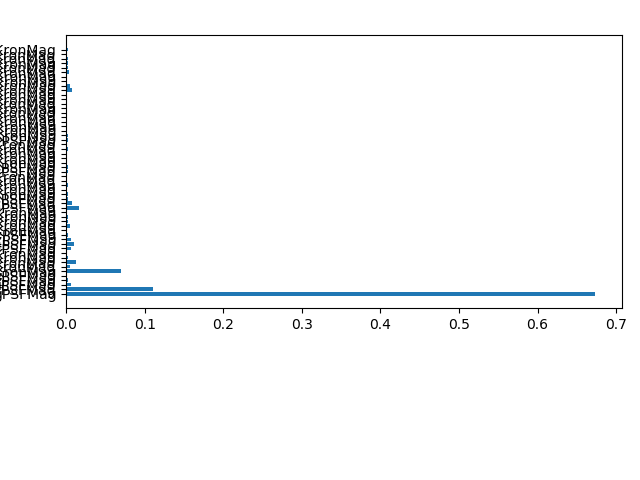
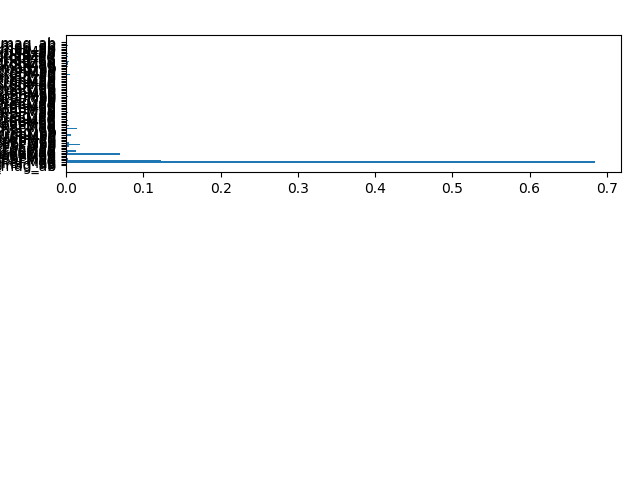
Bug hunting

diff --git a/crossmatching/filtering.py b/crossmatching/filtering.py
@@ -1,54 +1,56 @@
 import pandas as pd
 import glob as glob
 import numpy as np
-import glob as glob
+import os
 
 
-input_dir = '/projects/b1053/joe/photoz/crossmatching/output/'
 output_dir = '/projects/b1053/joe/photoz/crossmatching/filtered_output/'
+data_input_folder = '/projects/b1053/joe/photoz/crossmatching/output/*.csv'
+xmatched = pd.concat(map(pd.read_csv, glob.glob(os.path.join('', data_input_folder))))
+xmatched = xmatched.sample(frac=1, random_state=42).reset_index(drop=True)
 
-input_files = glob.glob(input_dir + '*')
+# Only keep primary detections
+filtered_xmatched = xmatched[xmatched['primaryDetection'] == 1]
+# Only keep redshifts above 0
+filtered_xmatched = filtered_xmatched[filtered_xmatched['z'] > 0]
+# Filter classes
+filtered_xmatched = filtered_xmatched[filtered_xmatched['class'] == 'GALAXY']
+# Filter stars
+filtered_xmatched = filtered_xmatched[filtered_xmatched['ps1dr2_p_star'] < 0.5]
 
-for f in input_files:
-    print('Filtering: {}'.format(f))
-    xmatched = pd.read_csv(f)
+filtered_xmatched['unwise_w1_mag_ab'] = filtered_xmatched.replace('None', np.nan)
+filtered_xmatched['unwise_w1_mag_ab'] = pd.to_numeric(filtered_xmatched['unwise_w1_mag_ab'])
+
+filtered_xmatched['unwise_w2_mag_ab'] = filtered_xmatched.replace('None', np.nan)
+filtered_xmatched['unwise_w2_mag_ab'] = pd.to_numeric(filtered_xmatched['unwise_w2_mag_ab'])
+
+# Fill nans with the average of the parameter
+filtered_xmatched['gPSFMag'] = filtered_xmatched['gPSFMag'].fillna(np.average(filtered_xmatched['gPSFMag'][~filtered_xmatched['gPSFMag'].isnull()]))
+filtered_xmatched['rPSFMag'] = filtered_xmatched['rPSFMag'].fillna(np.average(filtered_xmatched['rPSFMag'][~filtered_xmatched['rPSFMag'].isnull()]))
+filtered_xmatched['iPSFMag'] = filtered_xmatched['iPSFMag'].fillna(np.average(filtered_xmatched['iPSFMag'][~filtered_xmatched['iPSFMag'].isnull()]))
+filtered_xmatched['zPSFMag'] = filtered_xmatched['zPSFMag'].fillna(np.average(filtered_xmatched['zPSFMag'][~filtered_xmatched['zPSFMag'].isnull()]))
+filtered_xmatched['yPSFMag'] = filtered_xmatched['yPSFMag'].fillna(np.average(filtered_xmatched['yPSFMag'][~filtered_xmatched['yPSFMag'].isnull()]))
+
+filtered_xmatched['gKronMag'] = filtered_xmatched['gKronMag'].fillna(np.average(filtered_xmatched['gKronMag'][~filtered_xmatched['gKronMag'].isnull()]))
+filtered_xmatched['rKronMag'] = filtered_xmatched['rKronMag'].fillna(np.average(filtered_xmatched['rKronMag'][~filtered_xmatched['rKronMag'].isnull()]))
+filtered_xmatched['iKronMag'] = filtered_xmatched['iKronMag'].fillna(np.average(filtered_xmatched['iKronMag'][~filtered_xmatched['iKronMag'].isnull()]))
+filtered_xmatched['zKronMag'] = filtered_xmatched['zKronMag'].fillna(np.average(filtered_xmatched['zKronMag'][~filtered_xmatched['zKronMag'].isnull()]))
+filtered_xmatched['yKronMag'] = filtered_xmatched['yKronMag'].fillna(np.average(filtered_xmatched['yKronMag'][~filtered_xmatched['yKronMag'].isnull()]))
+
+filtered_xmatched['unwise_w1_mag_ab'] = filtered_xmatched['unwise_w1_mag_ab'].fillna(np.average(filtered_xmatched['unwise_w1_mag_ab'][~filtered_xmatched['unwise_w1_mag_ab'].isnull()]))    
+filtered_xmatched['unwise_w2_mag_ab'] = filtered_xmatched['unwise_w2_mag_ab'].fillna(np.average(filtered_xmatched['unwise_w2_mag_ab'][~filtered_xmatched['unwise_w2_mag_ab'].isnull()]))
+
+# Add all the available colours
+PSF = ['gPSFMag', 'rPSFMag', 'iPSFMag', 'zPSFMag', 'yPSFMag']
+Kron = ['gKronMag', 'rKronMag', 'iKronMag', 'zKronMag', 'yKronMag']
+W = ['unwise_w1_mag_ab', 'unwise_w2_mag_ab']
+total = PSF + Kron + W
+
+for i, c1 in enumerate(total):
+    for j, c2 in enumerate(total):
+        if j > i:
+            colname = c1 + '_' + c2
+            filtered_xmatched[colname] = filtered_xmatched[c1] - filtered_xmatched[c2]
     
-    # Only keep primary detections
-    filtered_xmatched = xmatched[xmatched['primaryDetection'] == 1]
-    # Only keep redshifts above 0
-    filtered_xmatched = filtered_xmatched[filtered_xmatched['z'] > 0]
-    # Filter classes
-    filtered_xmatched = filtered_xmatched[filtered_xmatched['class'] == 'GALAXY']
-    # Filter stars
-    filtered_xmatched = filtered_xmatched[filtered_xmatched['ps1dr2_p_star'] < 0.5]
-    # Fill nans with the average of the parameter
-    filtered_xmatched['gPSFMag'] = filtered_xmatched['gPSFMag'].fillna(np.average(filtered_xmatched['gPSFMag'][~filtered_xmatched['gPSFMag'].isnull()]))
-    filtered_xmatched['rPSFMag'] = filtered_xmatched['rPSFMag'].fillna(np.average(filtered_xmatched['rPSFMag'][~filtered_xmatched['rPSFMag'].isnull()]))
-    filtered_xmatched['iPSFMag'] = filtered_xmatched['iPSFMag'].fillna(np.average(filtered_xmatched['iPSFMag'][~filtered_xmatched['iPSFMag'].isnull()]))
-    filtered_xmatched['zPSFMag'] = filtered_xmatched['zPSFMag'].fillna(np.average(filtered_xmatched['zPSFMag'][~filtered_xmatched['zPSFMag'].isnull()]))
-    filtered_xmatched['yPSFMag'] = filtered_xmatched['yPSFMag'].fillna(np.average(filtered_xmatched['yPSFMag'][~filtered_xmatched['yPSFMag'].isnull()]))
 
-    filtered_xmatched['gKronMag'] = filtered_xmatched['gKronMag'].fillna(np.average(filtered_xmatched['gKronMag'][~filtered_xmatched['gKronMag'].isnull()]))
-    filtered_xmatched['rKronMag'] = filtered_xmatched['rKronMag'].fillna(np.average(filtered_xmatched['rKronMag'][~filtered_xmatched['rKronMag'].isnull()]))
-    filtered_xmatched['iKronMag'] = filtered_xmatched['iKronMag'].fillna(np.average(filtered_xmatched['iKronMag'][~filtered_xmatched['iKronMag'].isnull()]))
-    filtered_xmatched['zKronMag'] = filtered_xmatched['zKronMag'].fillna(np.average(filtered_xmatched['zKronMag'][~filtered_xmatched['zKronMag'].isnull()]))
-    filtered_xmatched['yKronMag'] = filtered_xmatched['yKronMag'].fillna(np.average(filtered_xmatched['yKronMag'][~filtered_xmatched['yKronMag'].isnull()]))
-
-    #filtered_xmatched['unwise_w1_mag_ab'] = filtered_xmatched['unwise_w1_mag_ab'].fillna(np.average(filtered_xmatched['unwise_w1_mag_ab'][~filtered_xmatched['unwise_w1_mag_ab'].isnull()]))
-
-    #filtered_xmatched['unwise_w2_mag_ab'] = filtered_xmatched['unwise_w2_mag_ab'].fillna(np.average(filtered_xmatched['unwise_w2_mag_ab'][~filtered_xmatched['unwise_w2_mag_ab'].isnull()]))
-
-    # Add all the available colours
-    PSF = ['gPSFMag', 'rPSFMag', 'iPSFMag', 'zPSFMag', 'yPSFMag']
-    Kron = ['gKronMag', 'rKronMag', 'iKronMag', 'zKronMag', 'yKronMag']
-    #W = []
-    total = PSF + Kron 
-
-    for i, c1 in enumerate(total):
-        for j, c2 in enumerate(total):
-            if j > i:
-                colname = c1 + '_' + c2
-                filtered_xmatched[colname] = filtered_xmatched[c1] - filtered_xmatched[c2]
-    
-
-    filtered_xmatched.to_csv(output_dir + f.split('/')[-1], index=False)
+filtered_xmatched.to_csv(output_dir + 'filtered_wise_panSTARRS.csv', index=False)

diff --git a/machine_learning/random_forest_regression.py b/machine_learning/random_forest_regression.py
@@ -11,18 +11,19 @@ import os as os
 
 data_input_folder = '/projects/b1053/joe/photoz/crossmatching/filtered_output/*.csv'
 data = pd.concat(map(pd.read_csv, glob.glob(os.path.join('', data_input_folder))))
-data = data.sample(frac=1, random_state=42).reset_index(drop=True)
+#data = data.sample(frac=1, random_state=42).reset_index(drop=True)
 
 # Select which features we wish to train on
-training_features = [#'unwise_w1_mag_ab', 'unwise_w2_mag_ab', # unWISE photometry
+training_features = ['unwise_w1_mag_ab', 'unwise_w2_mag_ab', # unWISE photometry
                      'gPSFMag', 'rPSFMag', 'iPSFMag', 'zPSFMag', 'yPSFMag', # panSTARRS psf photometry
                      'gKronMag', 'rKronMag', 'iKronMag', 'zKronMag', 'yKronMag', # panSTARRS Kron photometry
                      ]
 
+# Add colors to feature list
 PSF = ['gPSFMag', 'rPSFMag', 'iPSFMag', 'zPSFMag', 'yPSFMag']
 Kron = ['gKronMag', 'rKronMag', 'iKronMag', 'zKronMag', 'yKronMag']
-#W = []
-total = PSF + Kron
+W = ['unwise_w1_mag_ab', 'unwise_w2_mag_ab']
+total = PSF + Kron + W
 
 for i, c1 in enumerate(total):
     for j, c2 in enumerate(total):
@@ -30,52 +31,77 @@ for i, c1 in enumerate(total):
             colname = c1 + '_' + c2
             training_features.append(colname)
 
+#training_features = ['rPSFMag']
 
 # Select the predictor that we're using to guide the model
-predictor = ['z']
+predictor = 'z'
 
 # Renormalise our features and the predictor
-scaler = StandardScaler()
+scaler = MinMaxScaler()
 
-data[training_features + predictor] = scaler.fit_transform(data[training_features + predictor])
+#data = scaler.fit_transform(data)
 
-z_mean = scaler.mean_[-1]
-z_std = np.sqrt(scaler.var_[-1])
+#z_mean = scaler.mean_[-1]
+#z_std = np.sqrt(scaler.var_[-1])
 
 
 # Split our data set into a training and testing set in order to test our model performance
-X_train, X_test, y_train, y_test = train_test_split(data[training_features], data[predictor], test_size=0.2)
+X_train, X_test, y_train, y_test = train_test_split(data[training_features], data[predictor], test_size=0.1, random_state=42)
+
+print(X_train)
 
 # Define the random forest model
-RF_reg = RandomForestRegressor(n_estimators=500, random_state=42, verbose=2, n_jobs=-1)
+RF_reg = RandomForestRegressor(n_estimators=1, random_state=42, verbose=2, n_jobs=-1, min_samples_leaf=5)
 # Fit the model with the training data
 RF_reg.fit(X_train, y_train)
 
-
 # Predict redshifts from the test data
 test_predict = RF_reg.predict(X_test)
+train_predict = RF_reg.predict(X_train)
 
-test_predict = test_predict * z_std + z_mean
-y_test = y_test * z_std + z_mean
-y_train = y_train * z_std + z_mean
 
-plt.scatter(test_predict, y_test)
+#print('DELTA Z')
+#print(np.shape(train_predict))
+#print(np.shape(y_train))
+#print(train_predict - np.squeeze(y_train))
+#x = np.argwhere((train_predict - np.squeeze(y_train)) == 0.)
+#print('TESTING')
+#print(np.shape(X_train[x]))
+#print(np.shape(y_train[x]))
+
+#plt.scatter(np.squeeze(y_train[x]), np.squeeze(X_train[x]))
+#plt.savefig('test2.png')
+#plt.clf()
+
+# MAYBE SHOULD BE DOING THE SCALING ON THE TRAIN SET WITHOUT THE TEST ONE!
+#test_predict = test_predict * z_std + z_mean
+#train_predict = train_predict * z_std + z_mean
+#y_test = y_test * z_std + z_mean
+#y_train = y_train * z_std + z_mean
+
+plt.scatter(y_test, test_predict)
 plt.plot(y_test, y_test)
-plt.xlabel('predictions')
-plt.ylabel('real')
+plt.xlabel('Z_spec')
+plt.ylabel('Z_phot')
 plt.xscale('log')
 plt.yscale('log')
 plt.savefig('predictions.png')
 plt.clf()
 
-plt.scatter(RF_reg.predict(X_train) * z_std + z_mean, y_train)
+plt.scatter(np.squeeze(y_train), train_predict)
 plt.plot(y_train, y_train)
-plt.xlabel('predictions')
-plt.ylabel('real')
+plt.xlabel('Z_spec')
+plt.ylabel('Z_phot')
 plt.xscale('log')
 plt.yscale('log')
 plt.savefig('model.png')
 plt.clf()
+
+#plt.scatter(y_test, test_predict - y_test)
+#plt.xlabel('Z_spec')
+#plt.ylabel('Z_phot - Z_spec')
+#plt.savefig('norm2.png')
+#plt.clf()
 
 importances = RF_reg.feature_importances_
 std = np.std([tree.feature_importances_ for tree in RF_reg.estimators_], axis=0)
@@ -89,14 +115,14 @@ fig.tight_layout()
 plt.savefig('importance.png')
 plt.clf()
 
-plt.scatter(y_test['z'], (np.asarray(test_predict) - np.asarray(y_test['z']))/(1. + np.asarray(y_test['z'])))
-plt.savefig('norm.png')
-plt.clf()
+#plt.scatter(y_test, (np.asarray(test_predict) - np.asarray(y_test))/(1. + np.asarray(y_test)))
+#plt.savefig('norm.png')
+#plt.clf()
 
 plt.barh(training_features, RF_reg.feature_importances_)
 plt.savefig('importances2.png')
 
-print('The average bias is: {}'.format(np.average((np.asarray(test_predict) - np.asarray(y_test['z']))/(1. + np.asarray(y_test['z'])))))
+print('The average bias is: {}'.format(np.average((np.asarray(test_predict) - np.asarray(y_test))/(1. + np.asarray(y_test)))))
 
 
 joblib.dump(RF_reg, './models/test_model.joblib')

diff --git a/crossmatching/crossmatch.py b/crossmatching/crossmatch.py
@@ -27,9 +27,11 @@ for panSTARRS_file in glob.glob(panSTARRS_file_loc + '*.csv'):
     # Now perform the merge
     new_df = pd.merge(unWISE_reduced, panSTARRS_reduced, how='inner', left_on=unWISE_ID_col, right_on=panSTARRS_ID_col)
 
-    new_df.to_csv('output/' + panSTARRS_file.split('/')[-1] + '_unwise.csv', index=False)
-
-    print('matching IDs:')
     boolean_series = panSTARRS_data.objid.isin(unWISE_data[unWISE_ID_col])
-    print(len(panSTARRS_data[boolean_series]))
+    print('Found {} matches in {}'.format(len(panSTARRS_data[boolean_series]), panSTARRS_file))
 
+    if len(panSTARRS_data[boolean_series]) > 0:
+        print('Writing output to {}'.format(panSTARRS_file.split('/')[-1] + '_unwise.csv'))
+        new_df.to_csv('output/' + panSTARRS_file.split('/')[-1] + '_unwise.csv', index=False)
+    else:
+        print('No matches. Not writing.')
